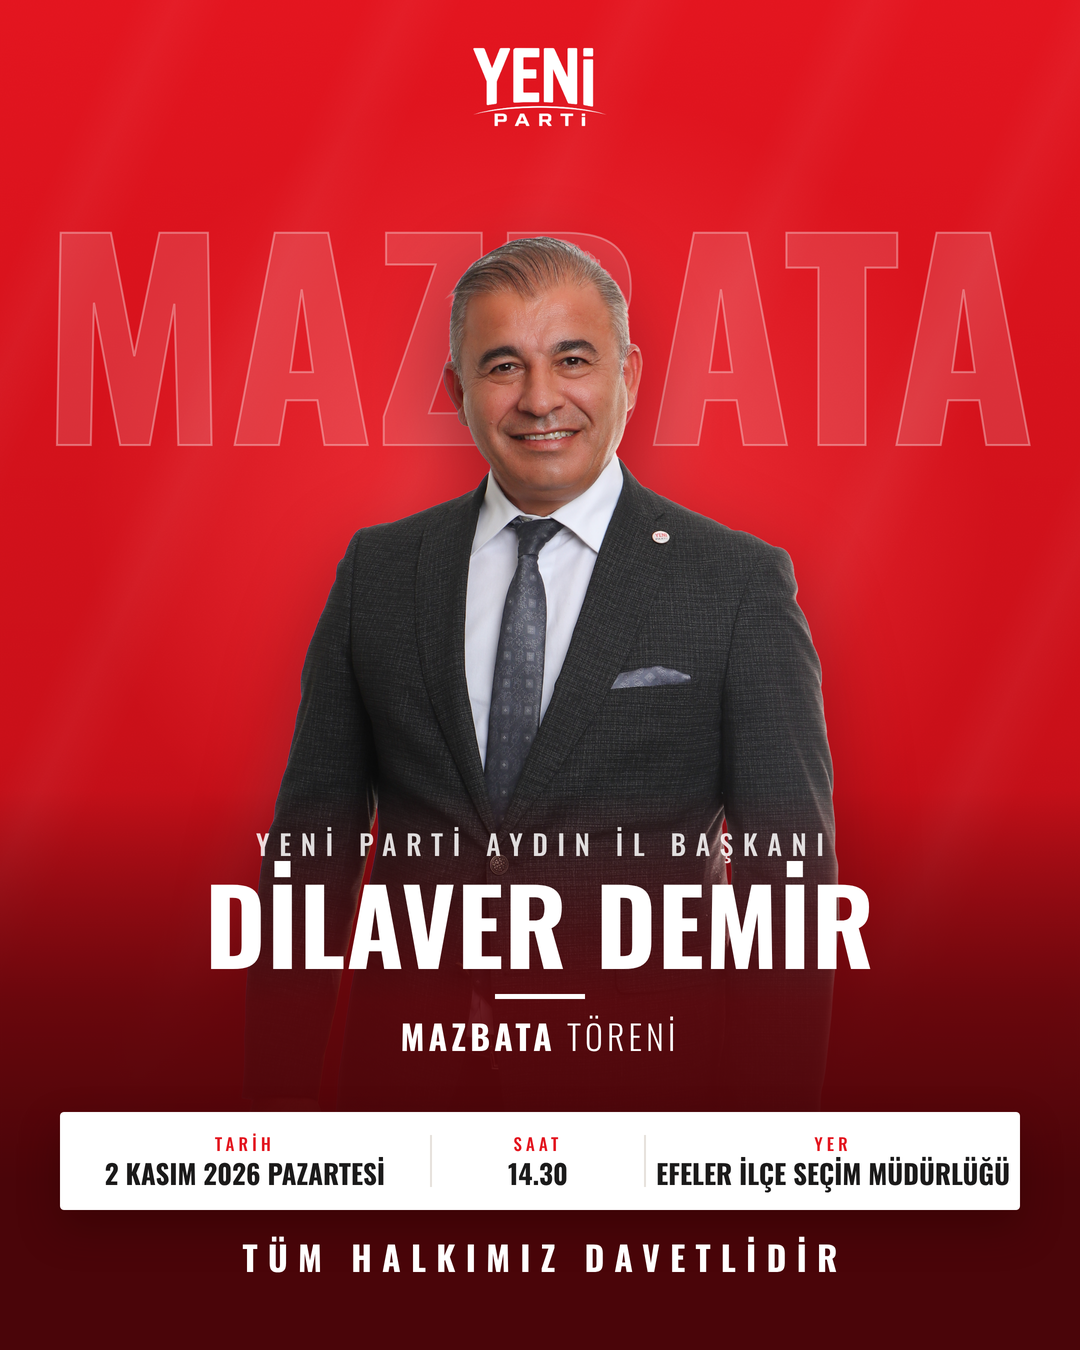
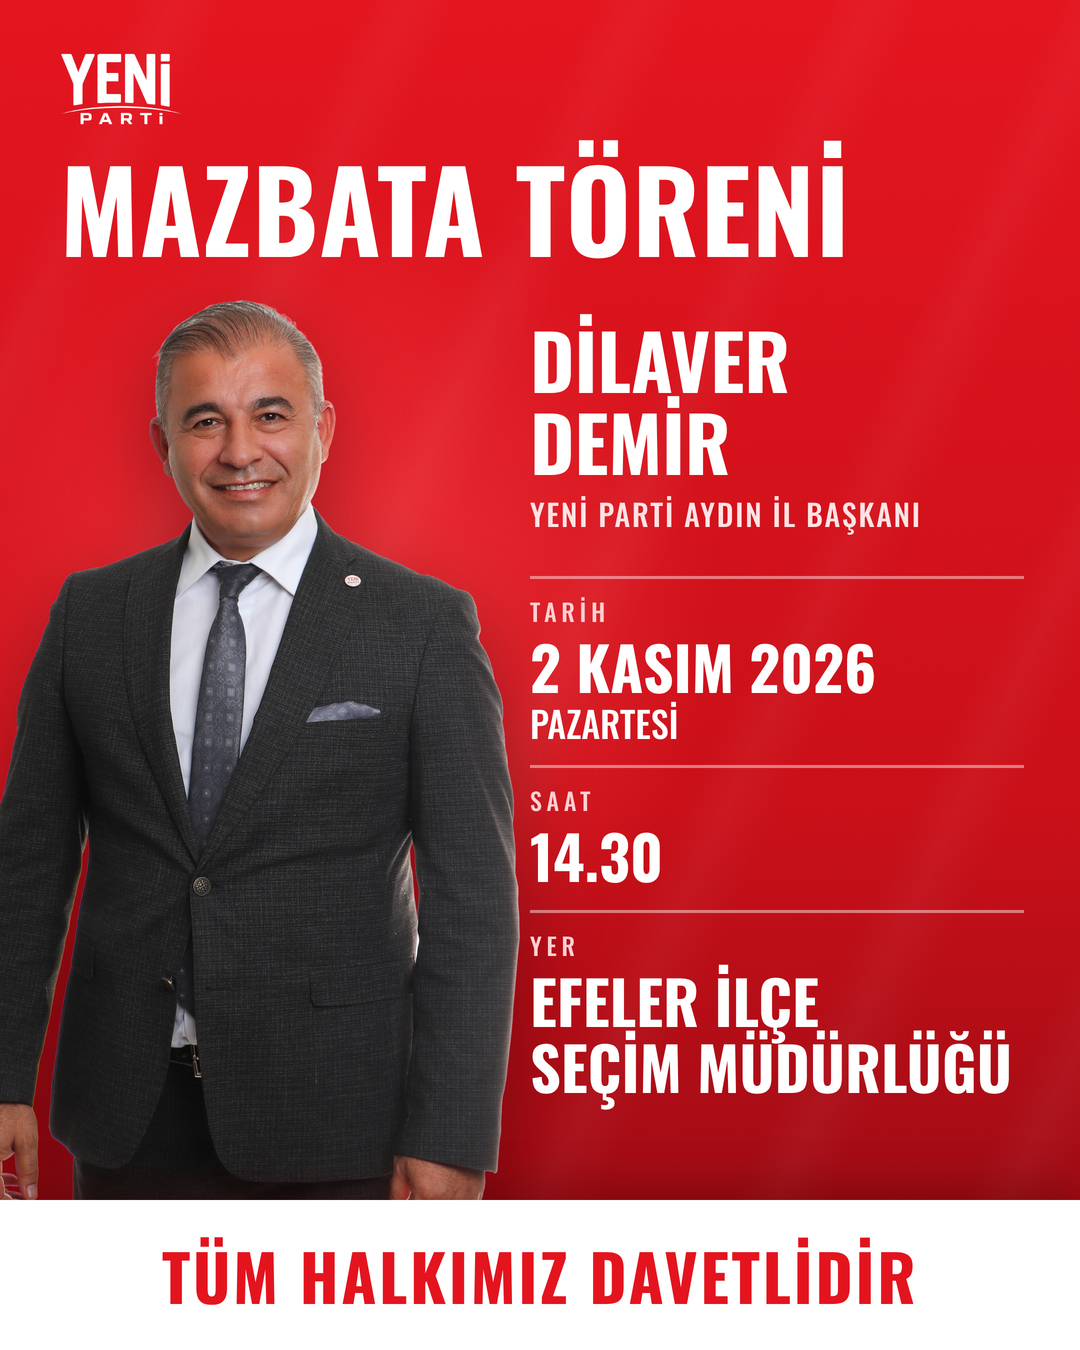
Mazbata görseli: büyük, okunaklı bilgi düzeni
Claude-Session: https://claude.ai/code/session_01SatttGbgBLoCnk9KGLypWv

diff --git a/tasarim/kisisel/mazbata/mazbata.html b/tasarim/kisisel/mazbata/mazbata.html
@@ -2,48 +2,41 @@
 <style>
 @font-face{font-family:O7;src:url(../../fontlar-gecici/Oswald-700.ttf)}
 @font-face{font-family:O5;src:url(../../fontlar-gecici/Oswald-500.ttf)}
-@font-face{font-family:O3;src:url(../../fontlar-gecici/Oswald-300.ttf)}
-:root{--kirmizi:#E3141E;--koyu:#5E060B}
+:root{--kirmizi:#E3141E}
 html,body{margin:0;width:1080px;height:1350px;overflow:hidden}
 body{position:relative;color:#fff;background:
- radial-gradient(ellipse 60% 45% at 50% 38%,#F2333A 0%,rgba(242,51,58,0) 70%),
- linear-gradient(180deg,#E3141E 0%,#C80F18 55%,#7A0810 100%)}
+ radial-gradient(ellipse 55% 45% at 28% 45%,#F2333A 0%,rgba(242,51,58,0) 70%),
+ linear-gradient(180deg,#E3141E 0%,#C80F18 60%,#8E0912 100%)}
 .isik{position:absolute;inset:0;background:repeating-linear-gradient(115deg,rgba(255,255,255,0) 0 120px,rgba(255,255,255,.035) 160px,rgba(255,255,255,0) 210px)}
 .gren{position:absolute;inset:0;opacity:.14;mix-blend-mode:overlay}
-.logo{position:absolute;left:50%;top:46px;height:82px;transform:translateX(-50%)}
-.dev{position:absolute;left:0;right:0;top:196px;text-align:center;font:262px/1 O7;letter-spacing:.01em;color:rgba(255,255,255,.13);white-space:nowrap}
-.dev2{position:absolute;left:0;right:0;top:196px;text-align:center;font:262px/1 O7;letter-spacing:.01em;color:transparent;-webkit-text-stroke:2px rgba(255,255,255,.35);white-space:nowrap}
-.kisi{position:absolute;left:50%;top:236px;width:600px;margin-left:-300px;filter:drop-shadow(0 30px 40px rgba(60,0,4,.45))}
-.alt{position:absolute;left:0;right:0;bottom:0;height:560px;background:linear-gradient(180deg,rgba(94,6,11,0) 0%,rgba(94,6,11,.85) 38%,#4A0509 70%)}
-.blok{position:absolute;left:0;right:0;top:830px;text-align:center}
-.unvan{font:28px/1 O5;letter-spacing:.34em;padding-left:.34em;color:rgba(255,255,255,.85)}
-.ad{margin-top:12px;font:104px/1 O7;letter-spacing:.01em}
-.cizgi{width:90px;height:5px;background:#fff;margin:20px auto 0}
-.mazbata{margin-top:20px;font:34px/1 O3;letter-spacing:.12em}
-.mazbata b{font-family:O7;font-weight:normal}
-.kart{position:absolute;left:60px;right:60px;top:1112px;height:98px;background:#fff;color:#1B1A1A;display:flex;align-items:center;border-radius:4px;box-shadow:0 18px 40px rgba(40,0,3,.4)}
-.kart div{flex:1;text-align:center;padding:0 10px}
-.kart div+div{border-left:2px solid #E6E1DC}
-.kart small{display:block;font:17px/1 O5;letter-spacing:.24em;color:var(--kirmizi);margin-bottom:8px}
-.kart span{display:block;font:27px/1 O7;white-space:nowrap}
-.davet{position:absolute;left:0;right:0;top:1240px;text-align:center;font:34px/1 O7;letter-spacing:.3em;padding-left:.3em}
+.logo{position:absolute;left:60px;top:52px;height:74px}
+.baslik{position:absolute;left:60px;right:60px;top:150px;font:112px/1 O7;letter-spacing:.01em;white-space:nowrap}
+.baslik span{color:#FFD9DB}
+.kisi{position:absolute;left:-40px;top:300px;width:560px;filter:drop-shadow(0 30px 40px rgba(60,0,4,.45))}
+.sag{position:absolute;left:530px;right:56px;top:318px}
+.ad{font:76px/1.08 O7}
+.unvan{margin-top:14px;font:30px/1.2 O5;letter-spacing:.06em;color:#FFE3E4}
+.bilgi{margin-top:44px}
+.satir{border-top:3px solid rgba(255,255,255,.45);padding:20px 0 22px}
+.satir small{display:block;font:24px/1 O5;letter-spacing:.2em;color:#FFD0D3;margin-bottom:10px}
+.satir b{display:block;font:60px/1.1 O7;font-weight:normal}
+.satir i{display:block;font:36px/1.1 O5;font-style:normal;margin-top:4px}
+.band{position:absolute;left:0;right:0;bottom:0;height:150px;background:#fff;display:flex;align-items:center;justify-content:center;box-shadow:0 -14px 40px rgba(60,0,4,.3)}
+.band div{font:64px/1 O7;color:var(--kirmizi);letter-spacing:.04em}
 </style><body>
 <div class="isik"></div>
 <svg class="gren" width="1080" height="1350"><filter id="g"><feTurbulence type="fractalNoise" baseFrequency=".8" numOctaves="2" seed="5"/><feColorMatrix type="saturate" values="0"/></filter><rect width="1080" height="1350" filter="url(#g)"/></svg>
 <img class="logo" src="yp-logo-beyaz.png">
-<div class="dev">MAZBATA</div><div class="dev2">MAZBATA</div>
+<div class="baslik">MAZBATA TÖRENİ</div>
 <img class="kisi" src="dilaver-kesik.png">
-<div class="alt"></div>
-<div class="blok">
+<div class="sag">
+ <div class="ad">DİLAVER<br>DEMİR</div>
  <div class="unvan">YENİ PARTİ AYDIN İL BAŞKANI</div>
- <div class="ad">DİLAVER DEMİR</div>
- <div class="cizgi"></div>
- <div class="mazbata"><b>MAZBATA</b> TÖRENİ</div>
+ <div class="bilgi">
+  <div class="satir"><small>TARİH</small><b>2 KASIM 2026</b><i>PAZARTESİ</i></div>
+  <div class="satir"><small>SAAT</small><b>14.30</b></div>
+  <div class="satir"><small>YER</small><b>EFELER İLÇE<br>SEÇİM MÜDÜRLÜĞÜ</b></div>
+ </div>
 </div>
-<div class="kart">
- <div><small>TARİH</small><span>2 KASIM 2026 PAZARTESİ</span></div>
- <div style="flex:.55"><small>SAAT</small><span>14.30</span></div>
- <div><small>YER</small><span>EFELER İLÇE SEÇİM MÜDÜRLÜĞÜ</span></div>
-</div>
-<div class="davet">TÜM HALKIMIZ DAVETLİDİR</div>
+<div class="band"><div>TÜM HALKIMIZ DAVETLİDİR</div></div>
 </body></html>
